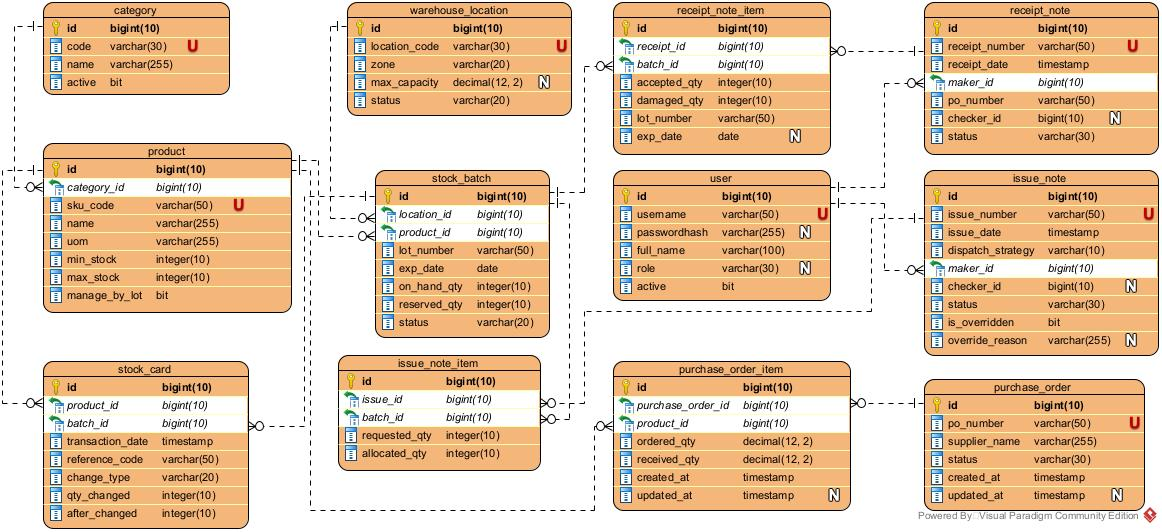
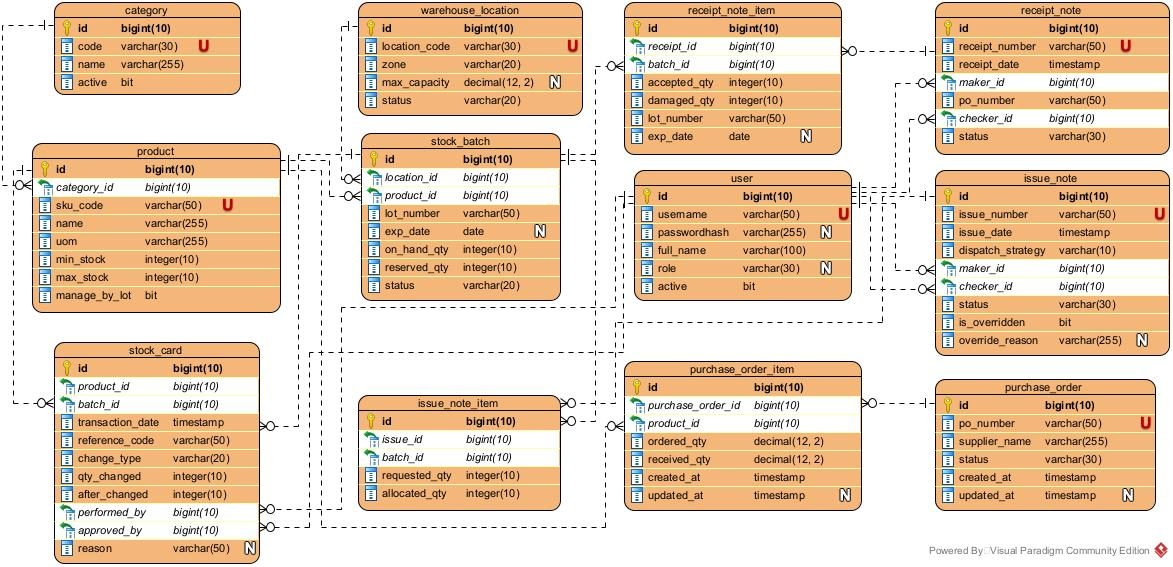
docs(erd): dong bo ban ve ERD 12 bang chuan 3NF voi D5-A va D6-B (16 quan he)

diff --git a/docs/02_uml_modeling/class_erd/class_erd.md b/docs/02_uml_modeling/class_erd/class_erd.md
@@ -74,7 +74,7 @@
 | **`issue_note_item`** | `id bigint(10)` | `issue_id`, `batch_id` | `requested_qty > 0`, `allocated_qty >= 0` |
 | **`user`** | `id bigint(10)` | — | `username` UNIQUE, `passwordhash` NOT NULL, `active bit DEFAULT 1` |
 
-### 2.3. Danh mục 14 Mối quan hệ Chân quạ (Crow's Foot 1:N Non-Identifying)
+### 2.3. Danh mục 16 Mối quan hệ Chân quạ (Crow's Foot 1:N Non-Identifying)
 1. `category` (1) $\rightarrow$ `product` (N) [`category_id`]
 2. `purchase_order` (1) $\rightarrow$ `purchase_order_item` (N) [`purchase_order_id`]
 3. `product` (1) $\rightarrow$ `purchase_order_item` (N) [`product_id`]
@@ -89,6 +89,8 @@
 12. `stock_batch` (1) $\rightarrow$ `issue_note_item` (N) [`batch_id`]
 13. `user` (1) $\rightarrow$ `receipt_note` (N) [`maker_id`]
 14. `user` (1) $\rightarrow$ `issue_note` (N) [`maker_id`]
+15. `user` (1) $\rightarrow$ `stock_card` (N) [`performed_by`]
+16. `user` (1) $\rightarrow$ `stock_card` (N) [`approved_by`]
 
 ---
 
